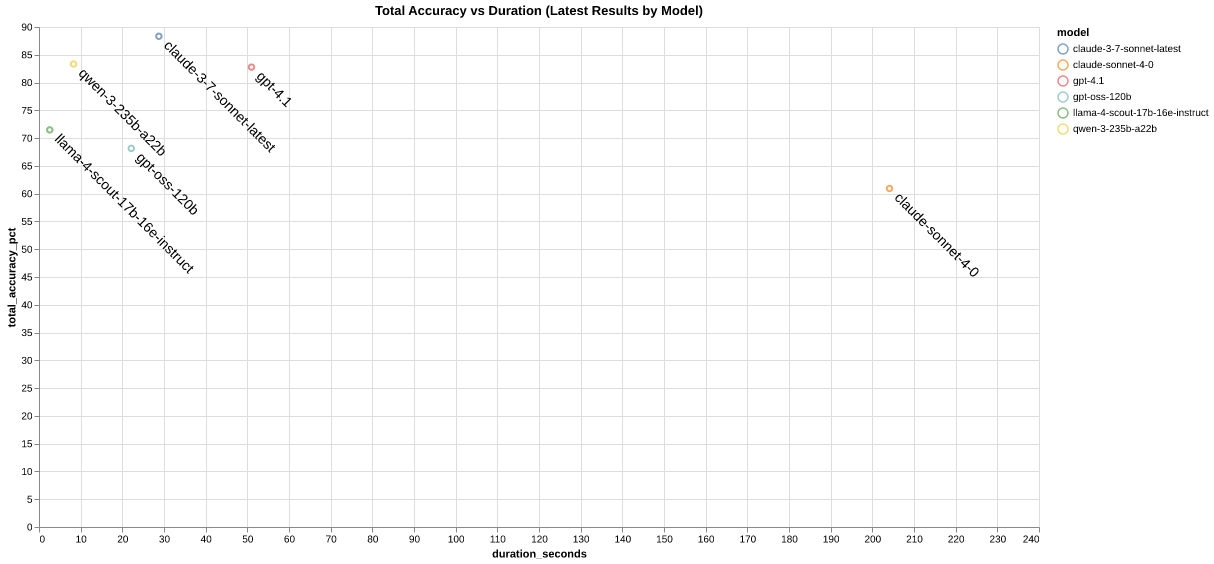
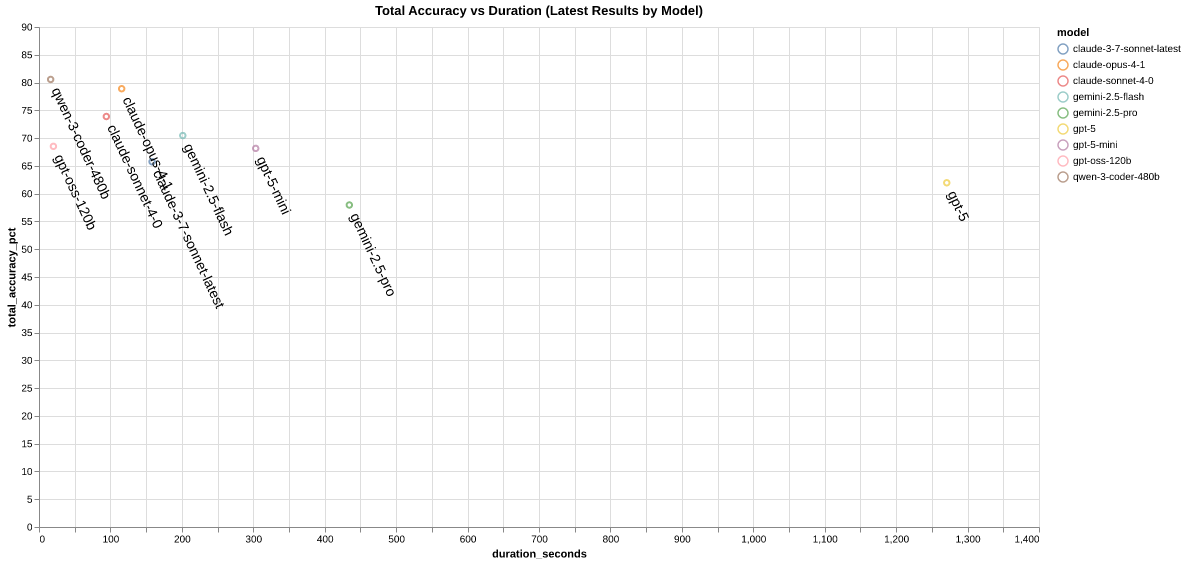
Evals: latests model results

diff --git a/evals/accuracy_duration.html b/evals/accuracy_duration.html
@@ -21,7 +21,7 @@
   <div id="vis"></div>
   <script>
     (function(vegaEmbed) {
-      var spec = {"config": {"view": {"continuousWidth": 300, "continuousHeight": 300}}, "layer": [{"mark": {"type": "point", "tooltip": true}, "encoding": {"color": {"field": "model", "type": "nominal"}, "x": {"field": "duration_seconds", "scale": {"domain": [0, 225]}, "type": "quantitative"}, "y": {"field": "total_accuracy_pct", "type": "quantitative"}}, "name": "view_1"}, {"mark": {"type": "text", "align": "left", "angle": 45, "dx": 10, "fontSize": 14}, "encoding": {"text": {"field": "model", "type": "nominal"}, "x": {"field": "duration_seconds", "type": "quantitative"}, "y": {"field": "total_accuracy_pct", "type": "quantitative"}}, "name": "view_2"}], "data": {"name": "data-211af2516a4b605a2ff30333eee4b6a7"}, "height": 500, "params": [{"name": "param_1", "select": {"type": "interval", "encodings": ["x", "y"]}, "bind": "scales", "views": ["view_1"]}, {"name": "param_2", "select": {"type": "interval", "encodings": ["x", "y"]}, "bind": "scales", "views": ["view_2"]}], "resolve": {"scale": {"color": "independent"}}, "title": "Total Accuracy vs Duration (Latest Results by Model)", "width": 1000, "$schema": "https://vega.github.io/schema/vega-lite/v5.20.1.json", "datasets": {"data-211af2516a4b605a2ff30333eee4b6a7": [{"model": "gpt-oss-120b", "commit_sha": "28716a313f91827f79d238c9ebe91cc1f7393bec", "date": "2025-08-06T09:41:50", "provider": "cerebras", "error_accuracy": 0.5278, "warning_accuracy": 0.6, "info_accuracy": 0.9167, "total_accuracy": 0.6815, "num_cases": 9, "duration_seconds": 22.15, "input_tokens": 115998, "output_tokens": 3262, "total_tokens": 119260, "total_accuracy_pct": 68.15}, {"model": "claude-3-7-sonnet-latest", "commit_sha": "c7fdcd1d5f9dc583a4b6a4dcaf2fb3e665f05617", "date": "2025-07-23T12:53:59", "provider": "anthropic", "error_accuracy": 0.9167, "warning_accuracy": 0.9, "info_accuracy": 0.8333, "total_accuracy": 0.8833, "num_cases": 6, "duration_seconds": 28.77, "input_tokens": null, "output_tokens": null, "total_tokens": null, "total_accuracy_pct": 88.33}, {"model": "claude-sonnet-4-0", "commit_sha": "b007ad9850d62ca66dd1642a7bc56d4dfb18d847", "date": "2025-08-06T09:13:11", "provider": "anthropic", "error_accuracy": 0.65, "warning_accuracy": 0.6222, "info_accuracy": 0.5556, "total_accuracy": 0.6093, "num_cases": 9, "duration_seconds": 204.12, "input_tokens": 115998, "output_tokens": 3262, "total_tokens": 119260, "total_accuracy_pct": 60.92999999999999}, {"model": "gpt-4.1", "commit_sha": "c7fdcd1d5f9dc583a4b6a4dcaf2fb3e665f05617", "date": "2025-07-23T12:43:33", "provider": "openai", "error_accuracy": 0.7667, "warning_accuracy": 0.8, "info_accuracy": 0.9167, "total_accuracy": 0.8278, "num_cases": 6, "duration_seconds": 51.0, "input_tokens": null, "output_tokens": null, "total_tokens": null, "total_accuracy_pct": 82.78}, {"model": "llama-4-scout-17b-16e-instruct", "commit_sha": "c7fdcd1d5f9dc583a4b6a4dcaf2fb3e665f05617", "date": "2025-07-23T12:47:13", "provider": "cerebras", "error_accuracy": 0.6944, "warning_accuracy": 0.7, "info_accuracy": 0.75, "total_accuracy": 0.7148, "num_cases": 6, "duration_seconds": 2.59, "input_tokens": null, "output_tokens": null, "total_tokens": null, "total_accuracy_pct": 71.48}, {"model": "qwen-3-235b-a22b", "commit_sha": "43adba88d2c13213712450a87c1e6082242a93b9", "date": "2025-07-23T13:20:16", "provider": "cerebras", "error_accuracy": 0.85, "warning_accuracy": 0.9, "info_accuracy": 0.75, "total_accuracy": 0.8333, "num_cases": 6, "duration_seconds": 8.29, "input_tokens": null, "output_tokens": null, "total_tokens": null, "total_accuracy_pct": 83.33}]}};
+      var spec = {"config": {"view": {"continuousWidth": 300, "continuousHeight": 300}}, "layer": [{"mark": {"type": "point", "tooltip": true}, "encoding": {"color": {"field": "model", "type": "nominal"}, "x": {"field": "duration_seconds", "scale": {"domain": [0, 1380]}, "type": "quantitative"}, "y": {"field": "total_accuracy_pct", "type": "quantitative"}}, "name": "view_1"}, {"mark": {"type": "text", "align": "left", "angle": 65, "dx": 10, "fontSize": 14}, "encoding": {"text": {"field": "model", "type": "nominal"}, "x": {"field": "duration_seconds", "type": "quantitative"}, "y": {"field": "total_accuracy_pct", "type": "quantitative"}}, "name": "view_2"}], "data": {"name": "data-5badc4cf944f1bdd7fa57d18668ac9de"}, "height": 500, "params": [{"name": "param_1", "select": {"type": "interval", "encodings": ["x", "y"]}, "bind": "scales", "views": ["view_1"]}, {"name": "param_2", "select": {"type": "interval", "encodings": ["x", "y"]}, "bind": "scales", "views": ["view_2"]}], "resolve": {"scale": {"color": "independent"}}, "title": "Total Accuracy vs Duration (Latest Results by Model)", "width": 1000, "$schema": "https://vega.github.io/schema/vega-lite/v5.20.1.json", "datasets": {"data-5badc4cf944f1bdd7fa57d18668ac9de": [{"model": "gpt-5", "commit_sha": "ab9432141e3656b52b60ce9b58776c924095c476", "date": "2025-08-08T09:57:36", "provider": "openai", "error_accuracy": 0.5198, "warning_accuracy": 0.5333, "info_accuracy": 0.8056, "total_accuracy": 0.6196, "num_cases": 9, "duration_seconds": 1270.86, "input_tokens": 104175, "output_tokens": 52306, "total_tokens": 156481, "total_accuracy_pct": 61.96}, {"model": "claude-opus-4-1", "commit_sha": "ab9432141e3656b52b60ce9b58776c924095c476", "date": "2025-08-08T08:41:53", "provider": "anthropic", "error_accuracy": 0.7778, "warning_accuracy": 0.8667, "info_accuracy": 0.7222, "total_accuracy": 0.7889, "num_cases": 9, "duration_seconds": 115.75, "input_tokens": 116538, "output_tokens": 4543, "total_tokens": 121081, "total_accuracy_pct": 78.89}, {"model": "gemini-2.5-pro", "commit_sha": "ab9432141e3656b52b60ce9b58776c924095c476", "date": "2025-08-08T08:07:01", "provider": "gemini", "error_accuracy": 0.5556, "warning_accuracy": 0.3778, "info_accuracy": 0.8056, "total_accuracy": 0.5796, "num_cases": 9, "duration_seconds": 434.48, "input_tokens": 110992, "output_tokens": 8109, "total_tokens": 152513, "total_accuracy_pct": 57.96}, {"model": "gpt-5-mini", "commit_sha": "ab9432141e3656b52b60ce9b58776c924095c476", "date": "2025-08-08T07:46:03", "provider": "openai", "error_accuracy": 0.6389, "warning_accuracy": 0.6, "info_accuracy": 0.8056, "total_accuracy": 0.6815, "num_cases": 9, "duration_seconds": 303.39, "input_tokens": 104175, "output_tokens": 29174, "total_tokens": 133349, "total_accuracy_pct": 68.15}, {"model": "claude-sonnet-4-0", "commit_sha": "ab9432141e3656b52b60ce9b58776c924095c476", "date": "2025-08-08T08:28:41", "provider": "anthropic", "error_accuracy": 0.7056, "warning_accuracy": 0.7333, "info_accuracy": 0.7778, "total_accuracy": 0.7389, "num_cases": 9, "duration_seconds": 94.28, "input_tokens": 116538, "output_tokens": 4681, "total_tokens": 121219, "total_accuracy_pct": 73.89}, {"model": "claude-3-7-sonnet-latest", "commit_sha": "ab9432141e3656b52b60ce9b58776c924095c476", "date": "2025-08-08T08:59:07", "provider": "anthropic", "error_accuracy": 0.6778, "warning_accuracy": 0.6, "info_accuracy": 0.6944, "total_accuracy": 0.6574, "num_cases": 9, "duration_seconds": 158.31, "input_tokens": 116538, "output_tokens": 8543, "total_tokens": 125081, "total_accuracy_pct": 65.74}, {"model": "gemini-2.5-flash", "commit_sha": "ab9432141e3656b52b60ce9b58776c924095c476", "date": "2025-08-08T09:44:47", "provider": "gemini", "error_accuracy": 0.6806, "warning_accuracy": 0.6, "info_accuracy": 0.8333, "total_accuracy": 0.7046, "num_cases": 9, "duration_seconds": 201.31, "input_tokens": 110992, "output_tokens": 11386, "total_tokens": 151917, "total_accuracy_pct": 70.46}, {"model": "qwen-3-coder-480b", "commit_sha": "ab9432141e3656b52b60ce9b58776c924095c476", "date": "2025-08-08T08:37:42", "provider": "cerebras", "error_accuracy": 0.75, "warning_accuracy": 0.7778, "info_accuracy": 0.8889, "total_accuracy": 0.8056, "num_cases": 9, "duration_seconds": 16.33, "input_tokens": 107555, "output_tokens": 5841, "total_tokens": 113396, "total_accuracy_pct": 80.56}, {"model": "gpt-oss-120b", "commit_sha": "ab9432141e3656b52b60ce9b58776c924095c476", "date": "2025-08-08T08:50:53", "provider": "cerebras", "error_accuracy": 0.7, "warning_accuracy": 0.6889, "info_accuracy": 0.6667, "total_accuracy": 0.6852, "num_cases": 9, "duration_seconds": 20.17, "input_tokens": 105579, "output_tokens": 11820, "total_tokens": 117399, "total_accuracy_pct": 68.52000000000001}]}};
       var embedOpt = {"mode": "vega-lite"};
 
       function showError(el, error){

diff --git a/evals/plot.py b/evals/plot.py
@@ -42,7 +42,7 @@ def main():
         y='total_accuracy_pct',
         color='model'
     ).encode(
-        x=alt.X('duration_seconds:Q', scale=alt.Scale(domain=[0, 225]))  # Extend x-axis to give room for labels
+        x=alt.X('duration_seconds:Q', scale=alt.Scale(domain=[0, 1380]))  # Extend x-axis to give room for labels
     )
 
     # Create text labels at 45 degree angle
@@ -51,7 +51,7 @@ def main():
         y='total_accuracy_pct',
         text='model'
     ).mark_text(
-        angle=45,
+        angle=65,
         align="left",
         dx=10,
         fontSize=14
@@ -72,7 +72,7 @@ def main():
 
     # Print summary data
     print("\nLatest results by model:")
-    summary = latest_df.select(['model', 'duration_seconds', 'total_accuracy_pct']).sort('duration_seconds')
+    summary = latest_df.select(['model', 'duration_seconds', 'total_accuracy_pct']).sort('total_accuracy_pct')
 
     for row in summary.iter_rows(named=True):
         print(f"  {row['model']:<30} {row['duration_seconds']:>8.2f}s  {row['total_accuracy_pct']:>6.1f}%")
